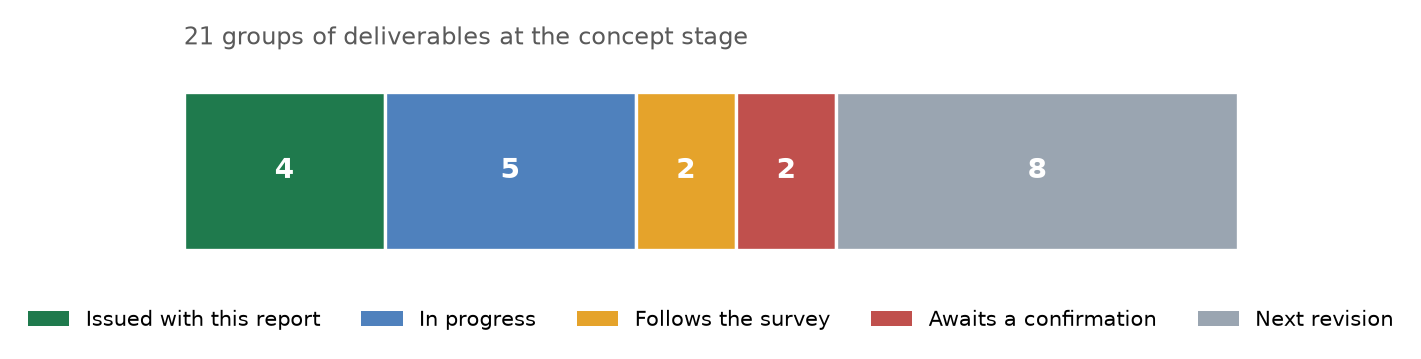
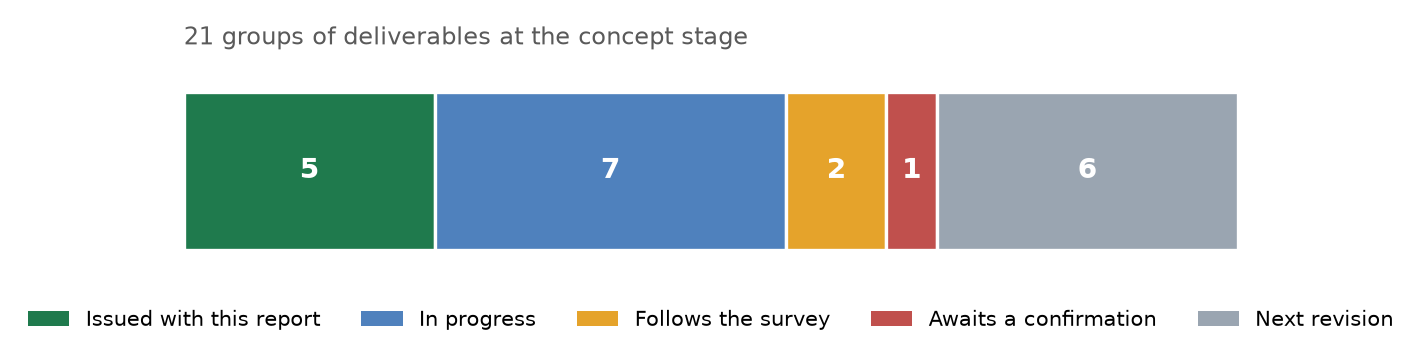
W17 report R4: options in the executive summary, deliverable positions, pumping tables
- Executive summary: "The sewer network options" with the options side by side
  (rpt_options.summary_block); "State of the work" and "Deliverables" now say what
  R4 issues instead of a framework only.
- Section 1.3.1: four deliverables move (network options issued; pumping stations,
  concept hydraulics and the SewerGEMS models in progress); chart R08 redrawn.
- charts_r3.py: the same import trap as build.py (facts_basis puts W16/report first,
  so R08 was drawn from W16's list); fixed the same way.
- Appendix B: one pumping-station table per option (duty, main, lift, head, kW,
  energy 2030 and 2070, retention 2030); lengths in metres for the quantities.
- Section 6.2: option bullets grouped before the figures (no half-empty pages),
  plants in W17 names in the options table, wording of the depth note, the
  retention sentence and the decision box.

diff --git a/W17/report/rpt_options.py b/W17/report/rpt_options.py
@@ -22,9 +22,9 @@ def _img(name):
 
 
 def _map(name):
-    """The maps are rendered into the deliverable folder; the report takes the same file."""
-    p = os.path.join(MAPS, name + ".png")
-    return p if os.path.exists(p) else _img(name)
+    """The maps are rendered into the deliverable folder and copied here by W17/gis/make_w17_project.py."""
+    p = _img(name)
+    return p if os.path.exists(p) else os.path.join(MAPS, name + ".png")
 
 
 def _chart(d, name, caption, width=17.0):
@@ -157,9 +157,9 @@ def network_options(d):
             widths=[1.4, 1.3, 1.6, 2.0, 1.8, 1.8, 1.8, 2.0, 2.0, 1.8], font=8)
     D.p(d, "")
     D.p(d, f"Every option has the same {fmt(s0['pipe_km'])} km of sewer and {fmt(s0['manholes'])} manholes; they differ "
-           "in the sizes of the trunk sewers, in the pumping and in the plants. The depth to invert is counted from the "
-           "ground at each manhole, so a manhole deeper than 12 m in the table is not necessarily one with more than "
-           "12 m of cover.")
+           "in the sizes of the trunk sewers, in the pumping and in the plants. The depth of a manhole is counted from "
+           "its cover to its invert, so a manhole deeper than 12 m in the table does not necessarily have a pipe with "
+           "more than 12 m of cover.")
 
     _chart(d, "W01_plant_split", "The average flow arriving at each plant in 2070, by option. Colours as on the maps "
                                  "and diagrams.")
@@ -255,17 +255,46 @@ def network_options(d):
               "The year from which the network is to be self-cleansing (2030, the opening year, or a later year); "
               "the tractive stress for the head pipes (1 pascal, or another value); and whether 4 per cent is the "
               "steepest gradient for every pipe or for the head pipes only. A steeper network is deeper and needs "
-              "more pumping, and the cost of each choice will be given once it is made. This completes Decision 7 "
+              "more pumping, and the cost of each choice will be given once it is made. This extends Decision 7 "
               "(Section 3.3.2).")
+
+
+# ===================================================================== executive summary
+def summary_block(d):
+    """The options in the executive summary: what was modelled, the numbers side by side, what needs attention."""
+    opts = F.available()
+    if not opts:
+        return
+    s0 = F.summary(opts[0]); rows = [F.option_row(o) for o in opts]
+    n_pl = [r["n_plants"] for r in rows]
+    D.title(d, "The sewer network options", size=12, space_before=8)
+    D.p(d, f"The sewer network is modelled in SewerGEMS as twenty-four subnetworks, {fmt(s0['pipe_km'])} km of sewer and "
+           f"{fmt(s0['manholes'])} manholes, each draining by gravity to its own outfall and designed for the flow of 2070. "
+           f"{WORDS[len(opts)].capitalize()} option{'s have' if len(opts) > 1 else ' has'} been modelled for where the flow "
+           f"is treated, from {WORDS[min(n_pl)]} plant{'s' if min(n_pl) > 1 else ''} to {WORDS[max(n_pl)]}; where an "
+           "outfall is not at a plant, a pumping station lifts its flow into the next subnetwork or to a plant. "
+           + ("In every option and every year the pipes stay within the guideline's limits on velocity and depth of flow."
+              if all(F.checks_clean(o) for o in opts) else ""))
+    D.tab_caption(d, "The sewer network options at a glance")
+    D.table(d, ["Option", "Plants", "Average flow at the largest plant, 2070, m³/d", "Pumping stations",
+                "Pumps in duty, kW", "Energy 2070, MWh a year", "Manholes deeper than 12 m"],
+            [[r["option"], str(r["n_plants"]), fmt(r["largest_plant_2070"]), str(r["n_ps"]), fmt(r["kw"]),
+              fmt(r["mwh_2070"]), str(r["mh_over_12"])] for r in rows],
+            widths=[1.6, 1.6, 4.2, 2.4, 2.4, 2.6, 3.2], font=9)
+    D.p(d, "")
+    D.p(d, "Two matters need attention whichever option is chosen: long rising mains carrying small flows, which hold the "
+           "sewage for hours and call for hydrogen sulphide control, and a few outlying connections that pump a small flow "
+           "against a very high head. No year brings every pipe to the self-cleansing velocity, even at 4 per cent; the "
+           "criterion for the head pipes is the decision of Section 6.2.8. Section 6.2 presents the options in full.")
 
 
 # ===================================================================== Appendix B
 def appendix_b(d):
     """The depth maps and the quantities of every option."""
     opts = F.available()
-    D.chapter(d, "Appendix B.   Network options: depth and quantities")
-    D.p(d, "This appendix gives, for each option, the depth of the 2070 design on a map, and the quantities of pipe "
-           "and manholes the options are compared on.")
+    D.chapter(d, "Appendix B.   Network options: quantities, pumping stations and depth")
+    D.p(d, "This appendix gives the quantities of pipe and manholes the options are compared on, the pumping stations "
+           "of each option, and the depth of each option's 2070 design on a map.")
     ods = sorted({od for o in opts for od in F.od_classes(o)})
     D.tab_caption(d, "Length of sewer by outside diameter, metres")
     D.table(d, ["Outside diameter, mm"] + opts,
@@ -287,8 +316,19 @@ def appendix_b(d):
              for b in pb],
             widths=[3.4] + [14.6 / len(opts)] * len(opts), font=8)
     D.p(d, "")
-    D.p(d, "The pumping stations of every option, with their flows, rising mains, heads and energy, are listed in the "
-           "tables delivered with this report.")
+    D.p(d, "The pumping stations of each option follow, largest duty first. The duty is the 2070 peak flow of everything "
+           "that reaches the station; the head is the static lift plus the friction in the rising main; the retention is "
+           "the time the 2030 average flow takes to pass through the main. The figures rest on the concept values of "
+           "Section 6.2.7.")
+    for o in opts:
+        D.tab_caption(d, f"Pumping stations of option {o}")
+        D.table(d, ["Station", "Discharges to", "Duty, l/s", "Main, mm", "Main, m", "Static lift, m", "Head, m", "kW",
+                    "MWh a year 2030", "MWh a year 2070", "Retention 2030, h"],
+                [[F.name(r["ps"]), f"STP at {r['to']}" if r["kind"] == "plant" else r["to"], fmt(r["duty"], 1), str(r["dn"]),
+                  fmt(r["L"]), fmt(r["static"], 1), fmt(r["H"], 1), fmt(r["kw"], 1), fmt(r["kwh2030"] / 1000, 1),
+                  fmt(r["kwh2070"] / 1000, 1), fmt(r["ret2030"] / 60, 1)] for r in F.pumps(o)],
+                widths=[2.2, 2.3, 1.4, 1.3, 1.4, 1.5, 1.4, 1.2, 1.7, 1.7, 1.9], font=7.5)
+        D.p(d, "")
     D.wide_figures(d, [(_map(f"W17_{o}_depth"), f"Option {o}: depth of the 2070 design. Sewers by depth to invert, "
                                                 "width by size; manholes deeper than 9 m marked, those deeper than 12 m "
                                                 "in red.") for o in opts], size="A4")

diff --git a/W17/report/rpt_front.py b/W17/report/rpt_front.py
@@ -208,17 +208,20 @@ def executive_summary(d):
             widths=[1.0, 11.5, 4.0], font=9.5)
     D.p(d, "")
 
+    import rpt_options             # Revision 4: the network options, from the SewerGEMS results of W17
+    rpt_options.summary_block(d)
+
     D.title(d, "State of the work", size=12, space_before=8)
     D.p(d, "The design basis, the data assessment, the population and flow "
            "series and the assessment framework are complete. The concept "
-           "hydraulic calculations for the sewer network have been completed "
-           "on the basis set out here, and those for the treated effluent "
-           "network and the treatment plant have begun. The topographic and "
-           "utility survey is in progress; the hydraulic assessment of the "
-           "existing networks follows it. The options for the sewer network, "
-           "the treated effluent network and the treatment plant are presented "
-           "as a framework in Chapter 6 and will be completed once the decisions "
-           "of Section 1.5 are taken.")
+           "hydraulic calculations for the sewer network are complete, and the "
+           "options for where its flow is treated are presented in Section 6.2; "
+           "those for the treated effluent network and the treatment plant have "
+           "begun. The topographic and utility survey is in progress; the "
+           "hydraulic assessment of the existing networks follows it. The options "
+           "for the treated effluent network and the treatment plant, the cost "
+           "of every option and their comparison will be completed once the "
+           "decisions of Section 1.5 are taken.")
 
     D.title(d, "How the options are developed and compared", size=12, space_before=8)
     D.p(d, "Three options are developed for each of the sewer network, the "
@@ -248,8 +251,9 @@ def executive_summary(d):
     D.p(d, "The Terms of Reference set out forty numbered deliverables for the "
            "concept stage. This report issues the design basis, the assessment "
            "of the data, the design criteria, the population and flow series "
-           "to saturation and the framework for the options and their "
-           "appraisal. The options themselves, the cost estimate and the "
-           "comparison follow once the design horizon is decided and the "
-           "survey is complete. Section 1.3.1 lists each deliverable and its "
-           "position.")
+           "to saturation, the framework for the options and their appraisal, "
+           "and the sewer network options with their quantities and pumping. "
+           "The options for the treated effluent network and the treatment "
+           "plant, the cost estimate and the comparison follow once the design "
+           "horizon is decided and the survey is complete. Section 1.3.1 lists "
+           "each deliverable and its position.")

diff --git a/W17/report/deliverables.py b/W17/report/deliverables.py
@@ -1,5 +1,6 @@
 """The concept-stage deliverables and where each stands, one list for the table of Section
-1.3.1 and for the chart beside it. Positions at the meeting of 16 September 2026."""
+1.3.1 and for the chart beside it. Positions at Revision 4, October 2026 (Revision 3 gave
+those of the meeting of 16 September 2026)."""
 
 # (deliverable, position, category)
 CATEGORIES = [("issued", "Issued with this report"), ("progress", "In progress"), ("survey", "Follows the survey"),
@@ -15,19 +16,24 @@ DELIVERABLES = [
     ("As-built records and GIS for the existing systems", "Follows the survey", "survey"),
     ("Hydraulic assessment of the existing systems", "Follows the survey", "survey"),
     ("Concept hydraulic calculations and capacities",
-     "Sewer network completed on the basis of this report; treated effluent network and treatment plant begun", "progress"),
-    ("Wastewater network options, not fewer than three", "Next revision", "next"),
+     "Sewer network designed and analysed for every option (Section 6.2); treated effluent network and treatment plant begun",
+     "progress"),
+    ("Wastewater network options, not fewer than three",
+     "Issued: seven options for where the flow is treated (Section 6.2); cost and comparison in the next revision", "issued"),
     ("Treated effluent network options, not fewer than three", "Next revision", "next"),
     ("Treatment plant options, not fewer than three, with siting and phasing",
      "Siting and decision matrix in progress; options in the next revision", "progress"),
-    ("Pumping and lifting station concept design", "Next revision", "next"),
+    ("Pumping and lifting station concept design",
+     "Duty, rising main, head and power of every station of every option (Appendix B); station design in the next revision",
+     "progress"),
     ("Treated effluent and sludge management strategy", "Framework issued; strategy in the next revision", "next"),
     ("Excess effluent and emergency overflow provisions", "Next revision", "next"),
     ("Environmental impact assessment for the plant location", "Follows confirmation of scope", "confirm"),
     ("Cost estimates and life cycle cost", "Method adopted, 25 years at 5 per cent; estimates in the next revision", "progress"),
     ("Risk analysis and value engineering", "Next revision", "next"),
     ("Multi-criteria comparison and recommended option", "Next revision", "next"),
-    ("Hydraulic models in SewerGEMS and WaterGEMS", "Follows confirmation of the software", "confirm"),
+    ("Hydraulic models in SewerGEMS and WaterGEMS",
+     "Sewer network options modelled in SewerGEMS; the WaterGEMS model of the treated effluent network follows", "progress"),
     ("Contracting strategy and implementation plan", "Next revision", "next"),
     ("Register of approvals and no objection certificates", "Maintained", "progress"),
 ]

diff --git a/W17/report/charts_r3.py b/W17/report/charts_r3.py
@@ -20,6 +20,9 @@ sys.path.insert(0, os.path.join(os.path.dirname(os.path.dirname(HERE)), "W16", "
 from charts import _style, _save, _thousands, BLUE, MID, PALE, GREY, RED, GREEN, AMBER  # noqa: E402
 import facts_w14 as F  # noqa: E402
 import facts_basis as B  # noqa: E402
+# W17: facts_basis puts W16/report at the head of the path; this folder's modules must win (deliverables, ...)
+_W16_REPORT = os.path.normcase(os.path.join(os.path.dirname(os.path.dirname(HERE)), "W16", "report"))
+sys.path[:] = [HERE] + [p for p in sys.path if os.path.normcase(os.path.abspath(p)) not in (os.path.normcase(HERE), _W16_REPORT)]
 
 fmt = F.fmt
 
